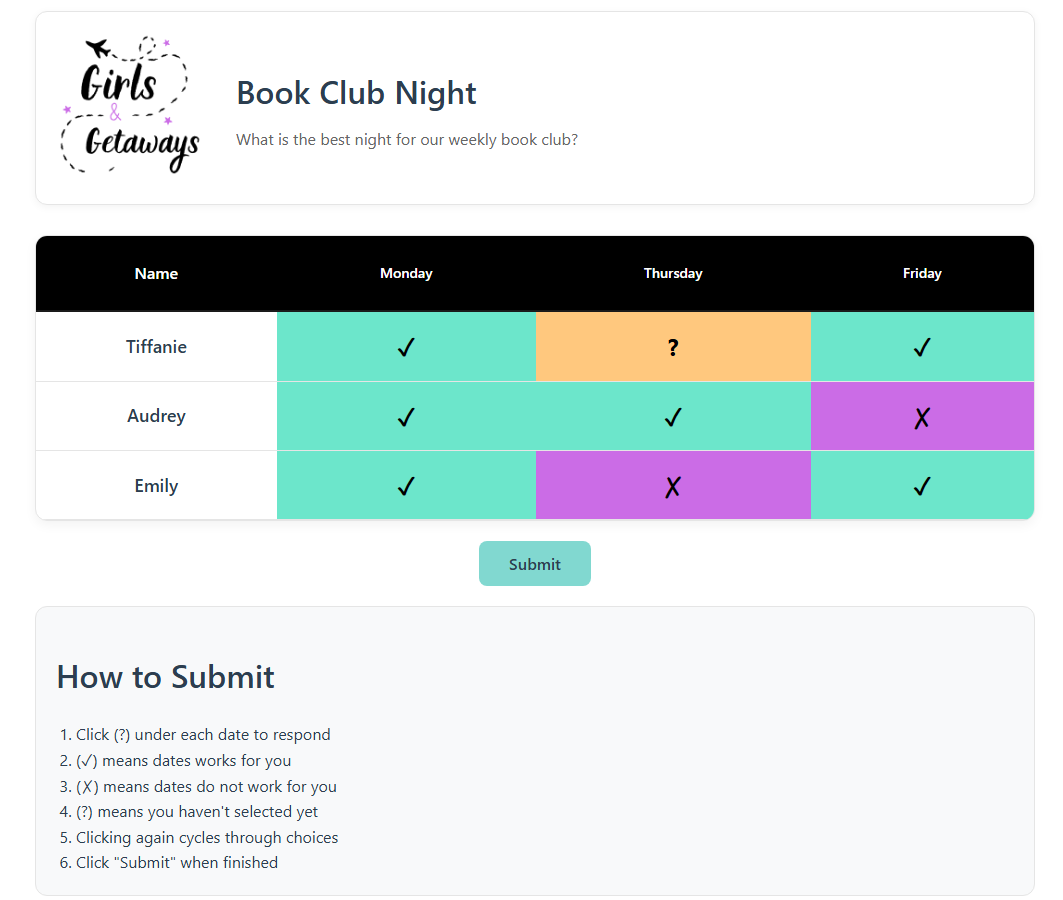
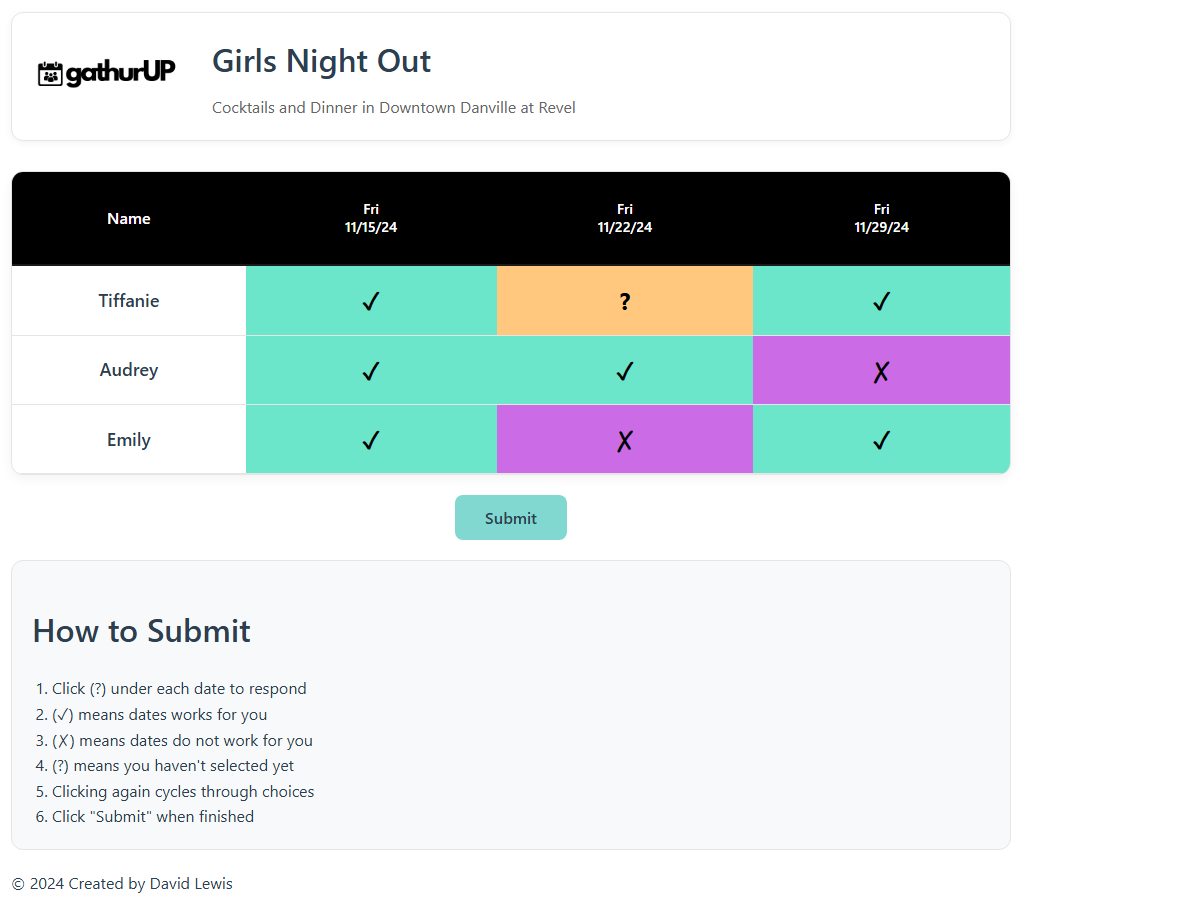
fixes

diff --git a/confirmation.html b/confirmation.html
@@ -3,7 +3,7 @@
 <head>
     <meta charset="UTF-8">
     <meta name="viewport" content="width=device-width, initial-scale=1.0">
-    <title>Vote Confirmation - Girls and Getaways</title>
+    <title>Vote Confirmation - gathurUP</title>
     <link rel="icon" href="favicon.ico" type="image/x-icon">
     <link rel="stylesheet" href="styles_vote.css">
     <style>
@@ -15,11 +15,11 @@
 <body>
     <div class="confirmation-message">
         <div class="logo-container">
-            <img src="gng.png" alt="Girls and Getaways Logo">
+            <img src="gathurUP.png" alt="gatherUP Logo">
         </div>
         <h2>Thank you for submitting your dates!</h2>
-        <h2>Do you plan events with your friends?</h2>
-        <p><a href="landing.html">Get your FREE Girls and Getaways Account Today!</a></p>
+        <h2>Do you organize events with friends?</h2>
+        <p><a href="login.html">Get your FREE gathurUP Account Today!</a></p>
     </div>
 </body>
 </html>

diff --git a/vote.html b/vote.html
@@ -10,7 +10,7 @@
 <body>
     <div class="header-container">
         <div class="logo-container">
-            <img src="gng.png" alt="Girls and Getaways Logo">
+            <img src="gathurUP.png" alt="gatherUP Logo">
         </div>
         <div class="header-text">
             <h1 id="eventTitleDisplay"></h1>
